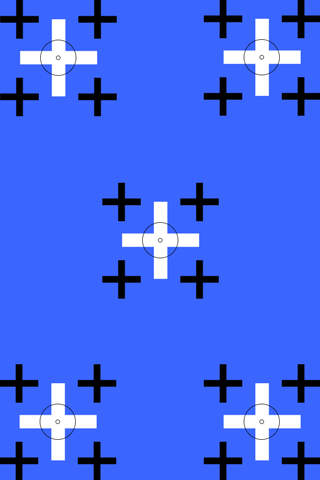
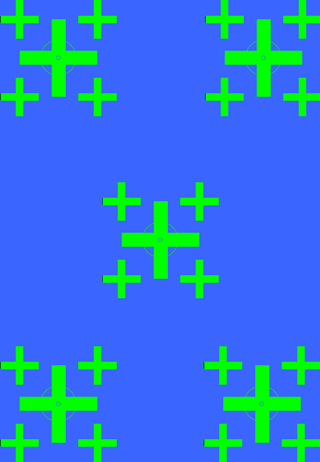
Fixed clipped text and added new mobcap screen

diff --git a/Sponty/ViewController.m b/Sponty/ViewController.m
@@ -25,6 +25,10 @@
 
 - (IBAction) startButtonPressed:(id) sender {
     placeVC = [[PlaceViewController alloc] initWithNibName:@"PlaceViewController" bundle:[NSBundle mainBundle]];
+    [self.view setBackgroundColor:[UIColor blackColor]];
+    for (int i = 0; i <= [[self.view subviews] count]; ++i) {
+        [[[self.view subviews] objectAtIndex:0] removeFromSuperview];
+    }
     [self switchedToNewPlace:placeVC];
 }
 
@@ -50,16 +54,7 @@
 }
 
 - (void) showNextPlace {
-    //NSLog(@"Switching");
     PlaceViewController *nextPlace = [self getNextPlace];
-    /*[UIView transitionWithView:self.view
-                      duration:0.2
-                       options:UIViewAnimationOptionTransitionCurlUp
-                    animations:^{ [self.view addSubview:nextPlace.view]; }
-                    completion:NULL];*/
-    /*[UIView transitionFromView:self.view toView:nextPlace.view duration:0.5 options:UIViewAnimationOptionTransitionCurlUp completion:^(BOOL finished){
-        //[self switchedToNewPlace:nextPlace];
-    }];*/
     [self switchedToNewPlace:nextPlace];
 }
 
@@ -70,15 +65,13 @@
 - (void)viewDidLoad
 {
     [super viewDidLoad];
+    [self.view setBackgroundColor:[UIColor colorWithPatternImage:[UIImage imageNamed:@"bgpattern"]]];
     [self.view addSubview:[[MocapOverlayView alloc] initWithSuperView:self.view]];
-	// Do any additional setup after loading the view, typically from a nib.
 }
 
 - (void)viewDidUnload
 {
     [super viewDidUnload];
-    // Release any retained subviews of the main view.
-    // e.g. self.myOutlet = nil;
 }
 
 - (void)viewWillAppear:(BOOL)animated

diff --git a/Sponty/CustomNavBar.m b/Sponty/CustomNavBar.m
@@ -15,6 +15,20 @@
     if (self) {
         self.frame = CGRectMake(self.frame.origin.x, self.frame.origin.y, 
                                 self.frame.size.width, 53);
+        UIView * contain = [[UIView alloc] initWithFrame:self.frame];
+        UILabel * titleLabel = [[UILabel alloc] initWithFrame:CGRectMake(0, 6, self.frame.size.width, self.frame.size.height)];
+        [titleLabel setFont:[UIFont fontWithName:@"Santa Fe LET" size:36]];
+        [titleLabel setText:self.topItem.title];
+        self.topItem.title = @"";
+        [titleLabel setBackgroundColor:[UIColor clearColor]];
+        [titleLabel setTextAlignment:UITextAlignmentCenter];
+        [titleLabel setTextColor:[UIColor colorWithRed:255.0/255.0 green:255.0/255.0 blue:255.0/255.0 alpha:1.0]];
+        [titleLabel setShadowColor:[UIColor colorWithRed:199.0/255.0 green:21.0/255.0 blue:67.0/255.0 alpha:0.98]];
+        [titleLabel setShadowOffset:CGSizeMake(1.5, 1.5)];
+        [contain addSubview:titleLabel];
+        
+        self.topItem.titleView = contain;
+        
 
 #ifndef __IPHONE_5_0
 #else
@@ -28,7 +42,6 @@
           nil]];
 #endif
         [self setBarStyle:UIBarStyleBlackOpaque];
-        //self.titleView.frame = CGRectMake(0, 0, 30, 50);
         return self;
     }
     return nil;

diff --git a/Sponty/MocapOverlayView.m b/Sponty/MocapOverlayView.m
@@ -37,7 +37,6 @@
 #endif
 
 - (UIView *)hitTest:(CGPoint)point withEvent:(UIEvent *)event {
-    NSLog(@"Running hit test");
     [self removeFromSuperview];
     UIView * hit = [mSuperView hitTest:point withEvent:event];
     [mSuperView addSubview:self];
